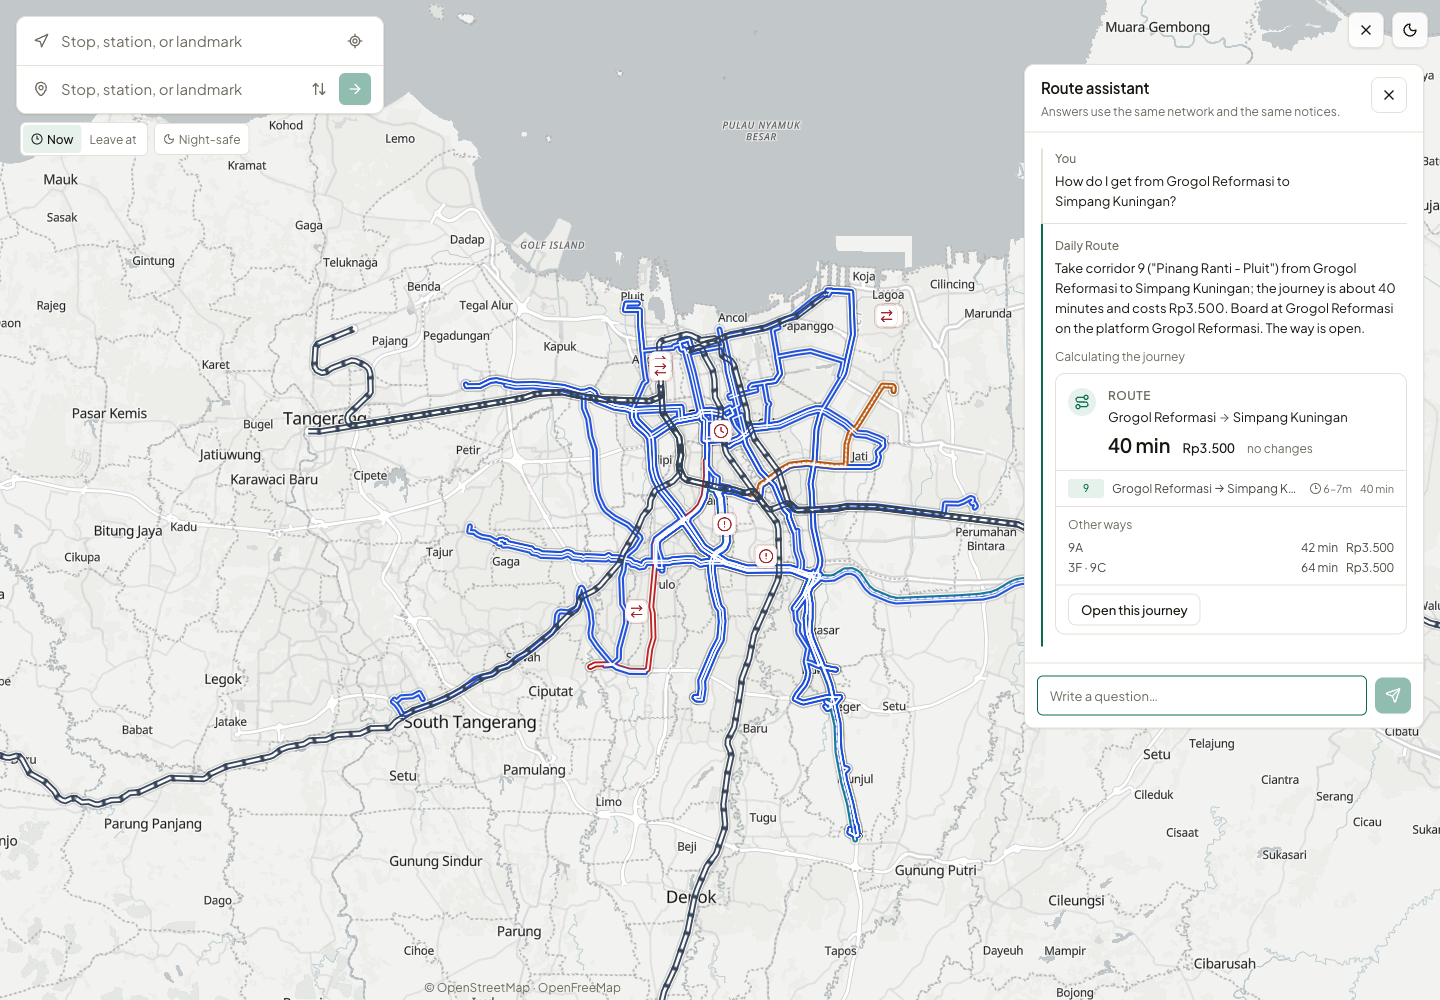
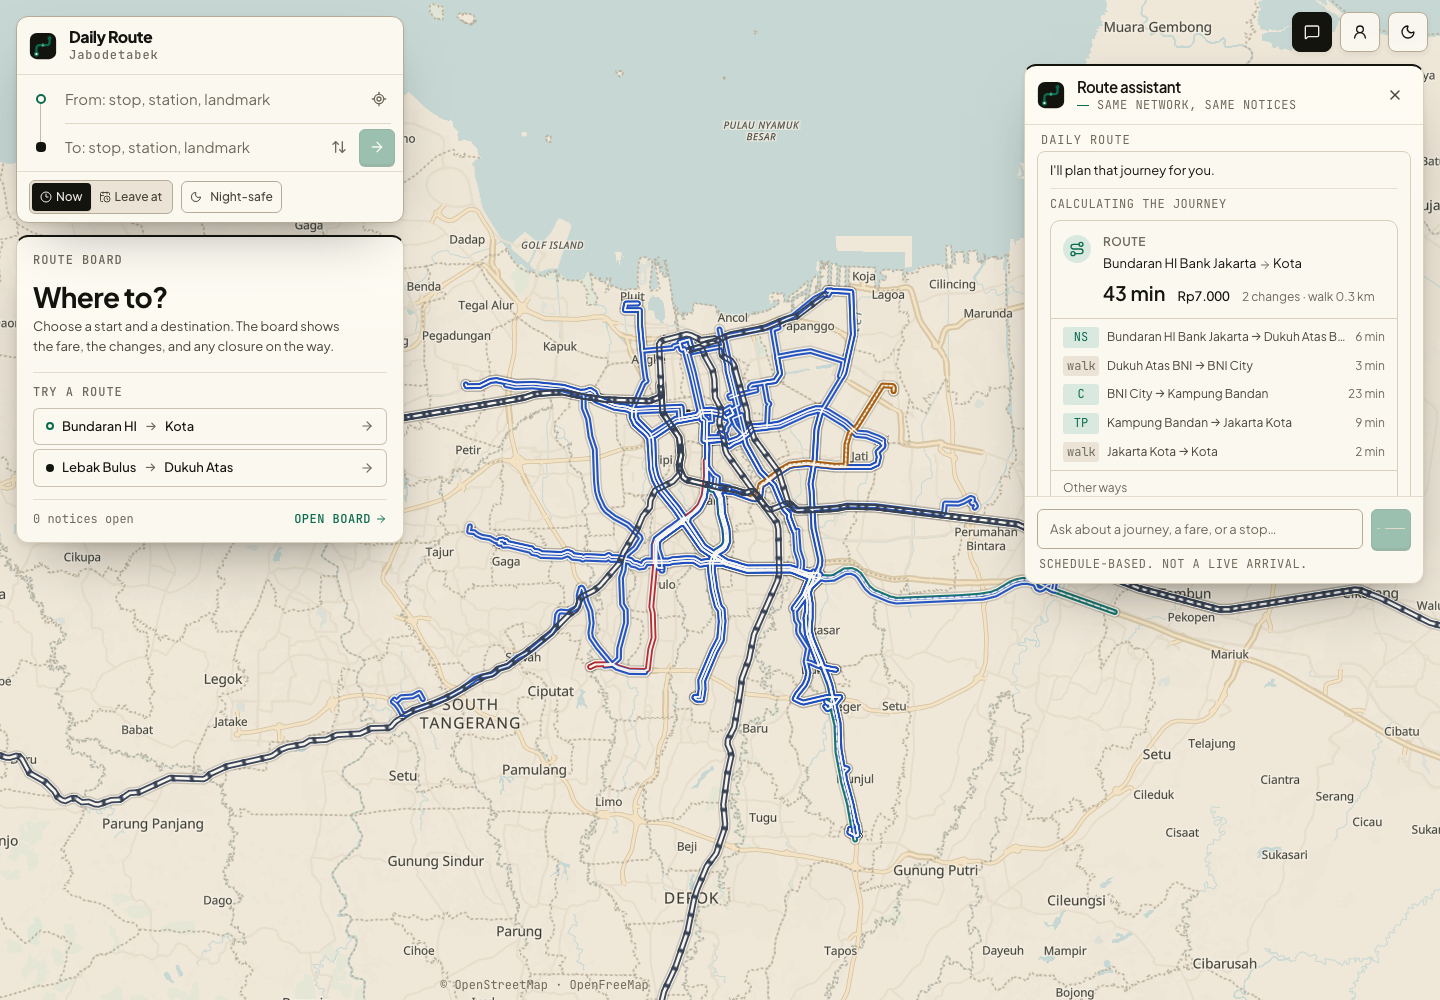
docs: refresh the README screenshots
The stills show the current map, the 9A journey, the corridor 8
pattern panel, the stop board and the assistant card.

diff --git a/README.md b/README.md
@@ -28,15 +28,15 @@ explains the answer. The agent is never the source of truth about the network.
 The graph is.
 
 <p align="center">
-  <img src="docs/images/route.png" alt="Daily Route showing a 41-minute corridor 9 journey from Grogol Reformasi to Simpang Kuningan, with the route on the map and the notice board on the right" width="1100">
+  <img src="docs/images/route.png" alt="Daily Route showing a 40-minute 9A journey from Grogol Reformasi to Simpang Kuningan, with the route on the map and the service board on the right" width="1100">
 </p>
 
 ## What it does
 
 |                                                                                                                                                                                                                                                                                                                                                                                                |                                                                                                                                                                                                                                                                                                                                                                                                   |
 | ---------------------------------------------------------------------------------------------------------------------------------------------------------------------------------------------------------------------------------------------------------------------------------------------------------------------------------------------------------------------------------------------- | ------------------------------------------------------------------------------------------------------------------------------------------------------------------------------------------------------------------------------------------------------------------------------------------------------------------------------------------------------------------------------------------------- |
-| <img src="docs/images/notices-home.png" alt="The operating network on the map with the Lines and Notices board on the right"> **The way that is still open.** Operator announcements become notices with a scope, a validity window and a source. A closed stop is not a closed corridor: the planner boards or alights at the nearest stop the rider can walk to, and the walk becomes a leg. | <img src="docs/images/assistant.png" alt="The route assistant answering with a route card, a service window and an Open this journey action"> **An assistant that cites the graph.** Ask in plain language. The assistant calls the same tools, then answers with semantic cards for a journey, a stop or a notice. A card cannot contain a station id, fare or duration the tool did not return. |
-| <img src="docs/images/patterns.png" alt="Koridor 8 journey showing the via Tomang and via Cideng patterns, the selected pattern and the stops it skips"> **One code, several patterns.** Koridor 8 runs via Tomang or Cideng; Koridor 9 has all-stop and toll runs. The journey says which pattern it boards, which stops it skips, and whether that pattern runs today.                       | <img src="docs/images/departures.png" alt="A stop popover with scheduled departures, headsigns and headways, labelled schedule-based, not live arrivals"> **A schedule, not an invented ETA.** The stop popover shows the scheduled lines, headsigns and headways. The line windows decide what runs; the planner uses half the median headway as the wait.                                       |
+| <img src="docs/images/notices-home.png" alt="The operating network on the map with the Lines and Notices board on the right"> **The way that is still open.** Operator announcements become notices with a scope, a validity window and a source. A closed stop is not a closed corridor: the planner boards or alights at the nearest stop the rider can walk to, and the walk becomes a leg. | <img src="docs/images/assistant.png" alt="The route assistant answering Bundaran HI to Kota with a route card: 43 minutes, Rp7.000, two changes"> **An assistant that cites the graph.** Ask in plain language. The assistant calls the same tools, then answers with semantic cards for a journey, a stop or a notice. A card cannot contain a station id, fare or duration the tool did not return. |
+| <img src="docs/images/patterns.png" alt="Koridor 8 from Harmoni to Pasar Baru, with the daily pattern selected and the Sunday Cideng pattern that skips Tomang"> **One code, several patterns.** Koridor 8 runs via Tomang or Cideng; Koridor 9 has all-stop and toll runs. The journey says which pattern it boards, which stops it skips, and whether that pattern runs today.                       | <img src="docs/images/departures.png" alt="The Grogol Reformasi stop card with scheduled departures, headsigns and headways, labelled schedule-based, not live arrivals"> **A schedule, not an invented ETA.** The stop popover shows the scheduled lines, headsigns and headways. The line windows decide what runs; the planner uses half the median headway as the wait.                                       |
 
 A journey is judged on **time, distance and the number of changes together**,
 and the waiting time for a new vehicle is part of it. The planner offers up to
